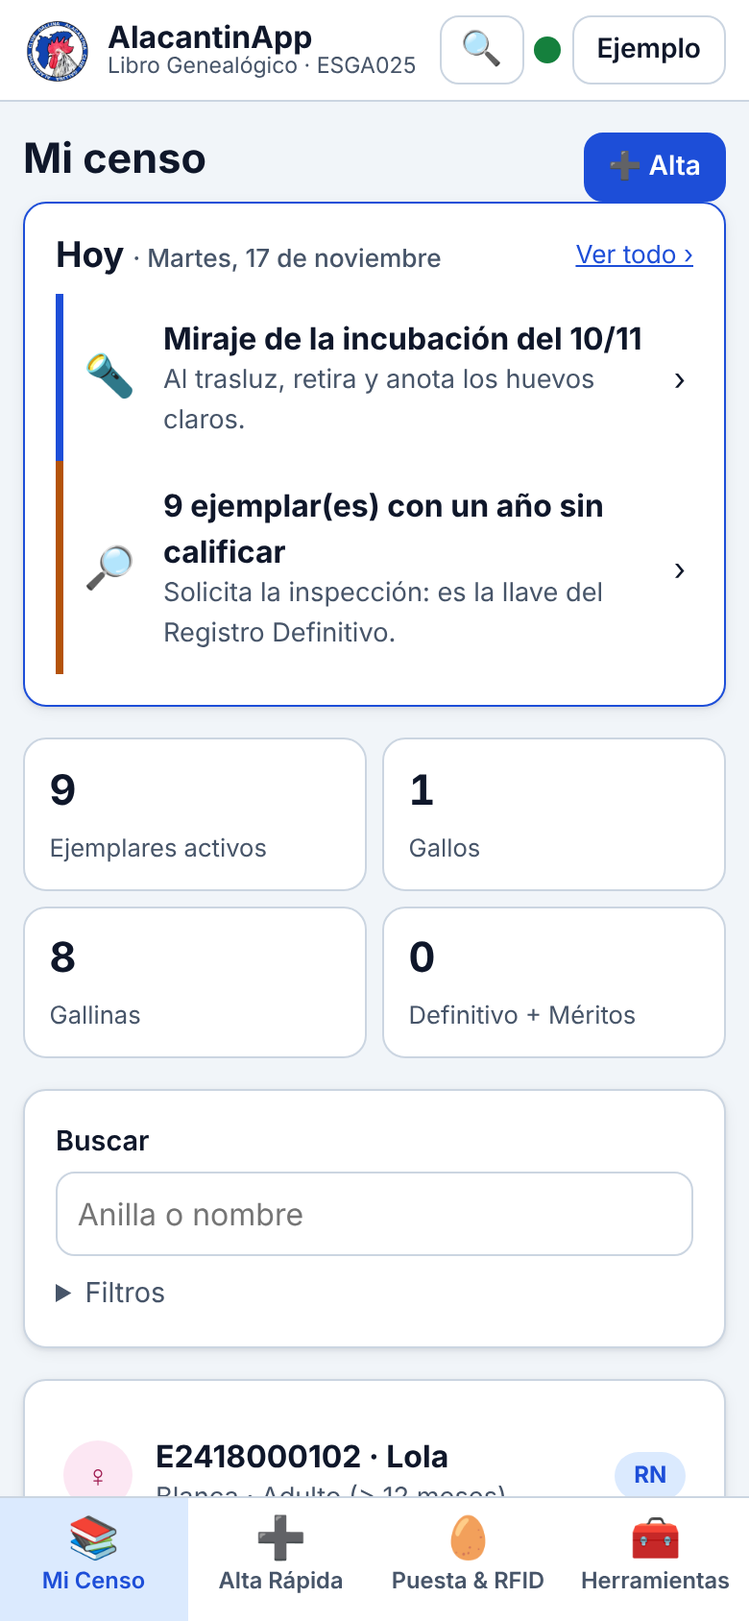
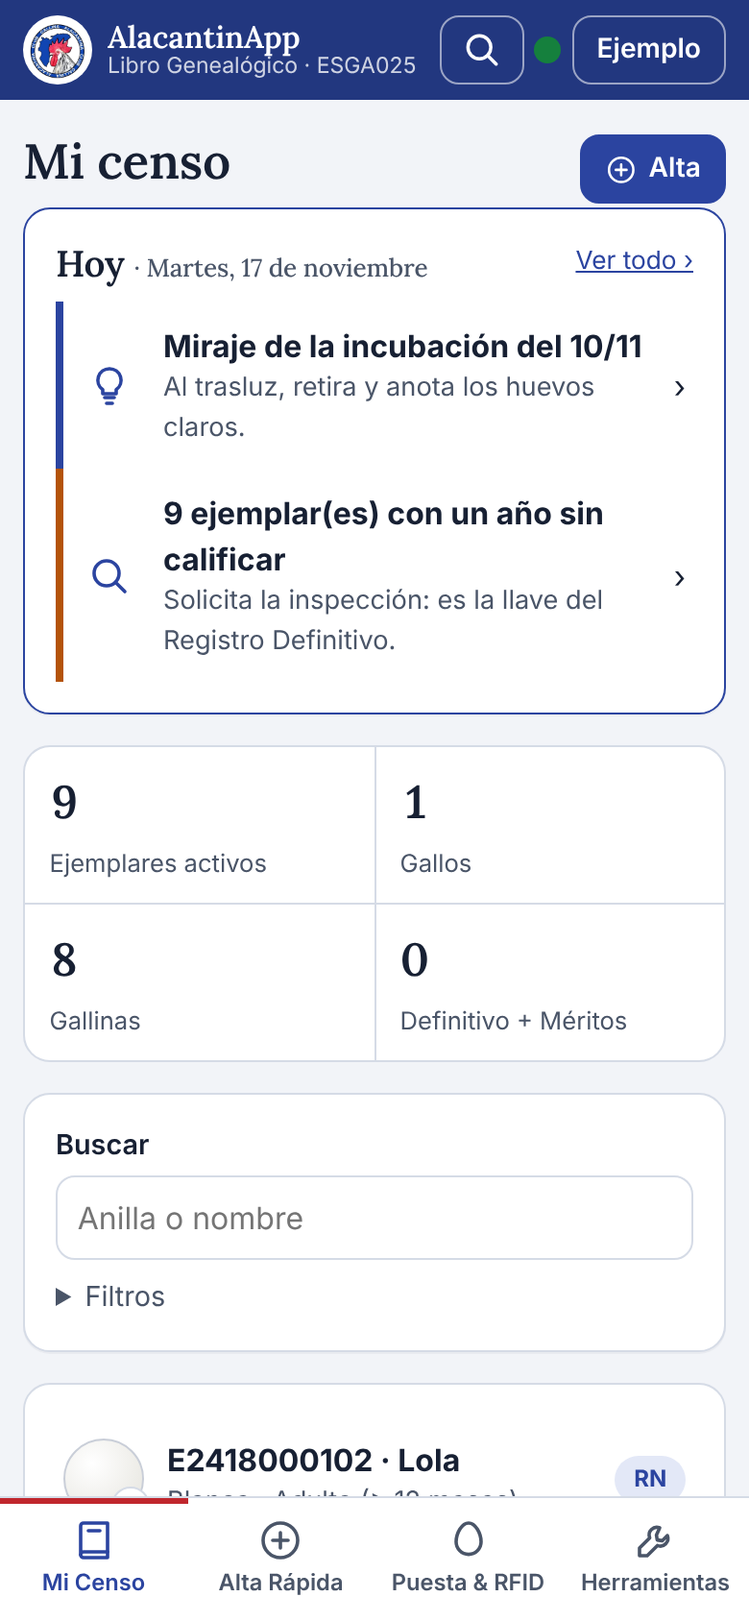
v7.14.0: identidad visual del Club
- Colores del escudo (marino y rojo cresta), títulos en Lora (WOFF local, OFL)
- Iconos SVG propios en lugar de emoji (js/iconos.js)
- Muestra de plumaje por variedad en censo, ficha y buscador
- Portada en el Estándar, franja de cifras, pesos «3–3,5 kg»
- Quita la línea de foco en main y las mayúsculas en tablas
- Capturas del manifiesto renovadas; pwa.mjs copia fonts/

Claude-Session: https://claude.ai/code/session_01TVyVoqxBmBJYePstuvjHuC

diff --git a/js/iconos.js b/js/iconos.js
@@ -1,0 +1,65 @@
+// Iconos propios (trazo de 24×24, color del texto). Sustituyen a los emoji, que cambian de
+// aspecto en cada móvil. Decorativos: aria-hidden; el texto de al lado da el nombre.
+import { html } from './ui.js';
+
+const T = {
+  libro: '<path d="M5 4.5A1.5 1.5 0 0 1 6.5 3H19v15H6.5A1.5 1.5 0 0 0 5 19.5z"/><path d="M5 19.5A1.5 1.5 0 0 0 6.5 21H19v-3"/><path d="M9 7h6"/>',
+  alta: '<circle cx="12" cy="12" r="9"/><path d="M12 8v8M8 12h8"/>',
+  huevo: '<path d="M12 3c3.6 0 6.5 5.4 6.5 9.8a6.5 6.5 0 0 1-13 0C5.5 8.4 8.4 3 12 3z"/>',
+  herramientas: '<path d="M14.5 5.5a4 4 0 0 0-5.2 5.2L4 16v4h4l5.3-5.3a4 4 0 0 0 5.2-5.2l-2.7 2.7-2.6-.4-.4-2.6z"/>',
+  estandar: '<circle cx="12" cy="9" r="5.5"/><path d="m8.7 13.5-1.2 7.5L12 19l4.5 2-1.2-7.5"/>',
+  guia: '<rect x="5.5" y="4" width="13" height="17" rx="2"/><path d="M9 4V2.8h6V4M8.5 10h7M8.5 14h7M8.5 18h4"/>',
+  lupa: '<circle cx="10.5" cy="10.5" r="6.5"/><path d="m20 20-4.8-4.8"/>',
+  calendario: '<rect x="3.5" y="5" width="17" height="15.5" rx="2"/><path d="M8 3v4M16 3v4M3.5 10h17"/>',
+  luz: '<path d="M9.5 18h5M10.5 21h3M12 3a6 6 0 0 0-3.5 10.9V16h7v-2.1A6 6 0 0 0 12 3z"/>',
+  nacimiento: '<path d="M5.5 13.5a6.5 6.5 0 0 0 13 0c0-.9-.1-1.8-.4-2.6L16 12.5l-2-3-2 3-2-3-2 3-2.1-1.6c-.3.8-.4 1.7-.4 2.6z"/>',
+  pollito: '<circle cx="10" cy="9" r="4"/><path d="M14 9l2.5 1-2.5 1M6 13.5C6 18 8.5 20 12 20s6-2 6-5.5c0-1.4-.6-2.4-1.5-3"/><circle cx="9" cy="8.5" r=".6" fill="currentColor"/>',
+  balanza: '<path d="M12 4v15M7.5 19h9M5 7.5h14"/><path d="M5 7.5 2.5 13a2.5 2.5 0 0 0 5 0zM19 7.5 16.5 13a2.5 2.5 0 0 0 5 0z"/>',
+  reloj: '<circle cx="12" cy="12" r="9"/><path d="M12 7v5l3.5 2"/>',
+  telefono: '<path d="M5 3.5h3.5l2 5L8 10a11 11 0 0 0 6 6l1.5-2.5 5 2V19a2 2 0 0 1-2 2A16.5 16.5 0 0 1 3 5.5a2 2 0 0 1 2-2z"/>',
+  coche: '<path d="M4.5 16v-4.5L6.8 6h10.4l2.3 5.5V16M3 16h18M7 19v-3M17 19v-3"/><circle cx="7.5" cy="13" r=".9" fill="currentColor"/><circle cx="16.5" cy="13" r=".9" fill="currentColor"/>',
+  revision: '<path d="M10 6h10M10 12h10M10 18h10"/><path d="m3.5 6 1.5 1.5L7.5 5M3.5 12l1.5 1.5L7.5 11M3.5 18l1.5 1.5 2.5-2.5"/>',
+  familia: '<circle cx="8" cy="7" r="3"/><circle cx="16.5" cy="8.5" r="2.5"/><path d="M3 20a5 5 0 0 1 10 0M13 20a4 4 0 0 1 8 0"/>',
+  casa: '<path d="M4 11 12 4l8 7v9H4z"/><path d="M10 20v-5h4v5"/>',
+  guardar: '<path d="M12 4v11M7 10l5 5 5-5M5 20h14"/>',
+  nube: '<path d="M7 18h10a4 4 0 0 0 .6-8A6 6 0 0 0 6 9a4.5 4.5 0 0 0 1 9z"/>',
+  candado: '<rect x="5" y="10.5" width="14" height="10" rx="2"/><path d="M8 10.5V7.5a4 4 0 0 1 8 0v3"/>',
+  aviso: '<path d="M12 3.5 2.5 20h19z"/><path d="M12 10v4.5M12 17.2v.3"/>',
+  brujula: '<circle cx="12" cy="12" r="9"/><path d="m15.5 8.5-2 5-5 2 2-5z"/>',
+  grafico: '<path d="M4 20V4M4 20h16"/><path d="M8 16v-4M12 16V8M16 16v-6"/>',
+  documento: '<path d="M7 3h7l5 5v13H7z"/><path d="M14 3v5h5M10 13h6M10 17h6"/>',
+  check: '<path d="m5 12.5 4.5 4.5L19 7.5"/>',
+  camara: '<path d="M4 8h3l1.5-2.5h7L17 8h3v11H4z"/><circle cx="12" cy="13" r="3.5"/>',
+  escudo: '<path d="M12 3 5 6v5.5c0 4.5 3 7.5 7 9.5 4-2 7-5 7-9.5V6z"/>',
+  movil: '<rect x="7" y="2.5" width="10" height="19" rx="2"/><path d="M11 18.5h2"/>',
+  bandera: '<path d="M5 21V4M5 4h11l-2 4 2 4H5"/>',
+  cesta: '<path d="M3.5 10h17l-2 10h-13z"/><path d="m8 10 3-6M16 10l-3-6"/>',
+  arbol: '<path d="M12 21v-6M12 15l-5-4M12 15l5-4M7 11V8M17 11V8"/><circle cx="7" cy="6" r="2"/><circle cx="17" cy="6" r="2"/>',
+  lapiz: '<path d="M4 20h4L19 9l-4-4L4 16z"/><path d="m13.5 6.5 4 4"/>',
+  copia: '<rect x="8" y="8" width="12" height="12" rx="2"/><path d="M16 8V5.5A1.5 1.5 0 0 0 14.5 4h-9A1.5 1.5 0 0 0 4 5.5v9A1.5 1.5 0 0 0 5.5 16H8"/>',
+  sol: '<circle cx="12" cy="12" r="4"/><path d="M12 2.5v2M12 19.5v2M2.5 12h2M19.5 12h2M5.3 5.3l1.4 1.4M17.3 17.3l1.4 1.4M5.3 18.7l1.4-1.4M17.3 6.7l1.4-1.4"/>',
+  baja: '<path d="M5 7h14M10 7V4.5h4V7M7 7l1 13h8l1-13"/>',
+  pareja: '<path d="M12 20s-7-4.4-7-10a4 4 0 0 1 7-2.6A4 4 0 0 1 19 10c0 5.6-7 10-7 10z"/>'
+};
+
+// Emoji que usaba la app → icono propio
+const EMOJI = {
+  '📚': 'libro', '➕': 'alta', '🥚': 'huevo', '🧰': 'herramientas', '📖': 'estandar', '📋': 'guia', '🔍': 'lupa', '🔎': 'lupa',
+  '📅': 'calendario', '🗓': 'calendario', '🔦': 'luz', '🐣': 'nacimiento', '🐥': 'pollito', '⚖': 'balanza', '⏳': 'reloj', '📞': 'telefono',
+  '🚗': 'coche', '🩺': 'revision', '🧬': 'familia', '🏡': 'casa', '💾': 'guardar', '☁': 'nube', '🔒': 'candado', '🐞': 'aviso',
+  '🧭': 'brujula', '💞': 'pareja', '📊': 'grafico', '📄': 'documento', '✅': 'check', '📷': 'camara', '🛡': 'escudo', '📲': 'movil',
+  '🚀': 'bandera', '🧺': 'cesta', '🌳': 'arbol', '✏': 'lapiz', '🖨': 'documento', '⬇': 'guardar', '☀': 'sol', '🗑': 'baja', '🏷': 'documento'
+};
+
+export const svgIcono = (nombre, clase = '') => T[nombre]
+  ? `<svg class="icono ${clase}" viewBox="0 0 24 24" width="24" height="24" fill="none" stroke="currentColor" stroke-width="1.8" stroke-linecap="round" stroke-linejoin="round" aria-hidden="true" focusable="false">${T[nombre]}</svg>`
+  : '';
+export const icono = (nombre, clase = '') => html(svgIcono(nombre, clase));
+// Para textos que traían un emoji: si hay icono propio se usa; si no, el emoji tal cual
+export const desdeEmoji = (e, clase = '') => (EMOJI[e] ? icono(EMOJI[e], clase) : e);
+export const nombreDeEmoji = (e) => EMOJI[e] || null;
+
+// Muestra del plumaje de la variedad con el sexo en una insignia (censo, ficha, buscador)
+import { nombreVariedad } from './estandar.js';
+const escAttr = (t) => String(t).replace(/[&<>"']/g, c => ({ '&': '&amp;', '<': '&lt;', '>': '&gt;', '"': '&quot;', "'": '&#39;' }[c]));
+export const ave = (a, clase = '') => html(`<span class="ave var-${escAttr(a.variedad || '')} sexo-${a.sexo === 'M' ? 'M' : 'H'} ${clase}" role="img" aria-label="${escAttr(`${a.sexo === 'M' ? 'Gallo' : 'Gallina'} ${nombreVariedad(a.variedad).toLowerCase()}`)}"><span class="ave-sexo" aria-hidden="true">${a.sexo === 'M' ? '♂' : '♀'}</span></span>`);

diff --git a/css/app.css b/css/app.css
@@ -4,12 +4,15 @@
    sol en el gallinero; tema oscuro automático según el sistema.
    ========================================================================== */
 :root {
-  --azul: #1e40af; --azul-2: #1d4ed8; --azul-claro: #dbeafe;
+  /* Identidad del Club: azul del escudo (provincia de Alicante) y rojo de la cresta */
+  --azul: #22377f; --azul-2: #2b44a0; --azul-claro: #e3e8f7;
+  --cresta: #c0262d;
+  --letra-titulo: "Lora", "Iowan Old Style", Georgia, serif;
   --rojo: #b91c1c; --rojo-claro: #fee2e2;
   --verde: #15803d; --verde-claro: #dcfce7;
   --ambar: #b45309; --ambar-claro: #fef3c7;
-  --texto: #0f172a; --texto-2: #475569; --borde: #cbd5e1;
-  --fondo: #f1f5f9; --superficie: #ffffff;
+  --texto: #172033; --texto-2: #4a5568; --borde: #d5dbe6;
+  --fondo: #f2f4f8; --superficie: #ffffff;
   --radio: 12px; --sombra: 0 1px 2px rgb(15 23 42 / .08), 0 2px 8px rgb(15 23 42 / .06);
   --barra-alto: 64px;
   /* Color de TEXTO de cada tono (en oscuro, más claro para que se lea sobre fondo oscuro) */
@@ -74,6 +77,8 @@ a { color: var(--azul-t); }
 .cabecera-estado { display: flex; align-items: center; gap: .35rem; flex-shrink: 0; }
 
 main { max-width: 960px; margin: 0 auto; padding: 1rem .75rem 2rem; outline: none; }
+/* main recibe el foco al navegar (lectores de pantalla): sin recuadro visible */
+main:focus, main:focus-visible { outline: none; }
 .cargando { color: var(--texto-2); }
 
 /* Barra inferior */
@@ -343,3 +348,53 @@ body.escribiendo .banner-actualizar { display: none; }
 .texto-legal h2 { font-size: 1.05rem; margin-top: 1.25rem; }
 .texto-legal h2:first-child { margin-top: 0; }
 .texto-legal li { margin-bottom: .35rem; }
+
+
+/* ===== Identidad visual (v7.14) ===== */
+@font-face { font-family: "Lora"; src: url("../fonts/lora.woff") format("woff"); font-weight: 400 700; font-display: swap; }
+h1, h2, .kpi b, .marca strong, .doc-cab h1 { font-family: var(--letra-titulo); font-weight: 600; letter-spacing: -.005em; }
+h1 { font-size: 1.6rem; } h2 { font-size: 1.2rem; }
+.item-titulo { font-weight: 650; }
+/* Cabecera con el azul del Club */
+.cabecera { background: var(--azul); color: #fff; border-bottom: 0; }
+.cabecera .marca { color: #fff; }
+.cabecera .marca img { background: #fff; border-radius: 50%; padding: 2px; }
+.cabecera .marca small { color: rgb(255 255 255 / .78); }
+.cabecera .btn { background: transparent; color: #fff; border-color: rgb(255 255 255 / .55); }
+.cabecera .btn:hover { background: rgb(255 255 255 / .12); }
+.cabecera .chip-ok { background: #dcfce7; color: #14532d; }
+/* Barra: iconos de trazo y la pestaña activa marcada con el rojo de la cresta */
+.barra a .ico { line-height: 0; }
+.barra a .icono { width: 24px; height: 24px; }
+.barra a[aria-current="page"] { background: transparent; color: var(--azul-t); box-shadow: inset 0 3px 0 var(--cresta); }
+@media (min-width: 900px) { .barra a[aria-current="page"] { box-shadow: inset 3px 0 0 var(--cresta); } }
+.icono { flex-shrink: 0; vertical-align: -0.2em; }
+.btn .icono { width: 1.2em; height: 1.2em; }
+.tarea-ico { color: var(--azul-t); line-height: 0; }
+.tarea-ico .icono { width: 24px; height: 24px; }
+.boton-icono .icono { width: 22px; height: 22px; }
+/* Tarjetas más sobrias */
+.tarjeta { border-radius: 14px; box-shadow: 0 1px 0 rgb(23 32 51 / .04); }
+/* Cifras en una sola franja, separadas por filetes (antes, una tarjeta por cifra) */
+.kpis { gap: 1px; background: var(--borde); border: 1px solid var(--borde); border-radius: 14px; overflow: hidden; }
+.kpi { border: 0; border-radius: 0; background: var(--superficie); }
+.kpi b { font-size: 1.5rem; font-variant-numeric: lining-nums tabular-nums; }
+/* Etiquetas de tabla en minúscula (las versales gritaban) */
+th { text-transform: none; letter-spacing: 0; font-weight: 600; font-size: .82rem; }
+/* Muestra del plumaje de cada variedad, con el sexo en una insignia */
+.ave { width: 42px; height: 42px; border-radius: 50%; flex-shrink: 0; position: relative; border: 1px solid #c9ced8; display: inline-block; }
+.ave-sexo { position: absolute; right: -4px; bottom: -4px; width: 20px; height: 20px; border-radius: 50%; background: var(--superficie); border: 1px solid var(--borde);
+  font-size: .75rem; font-weight: 800; line-height: 18px; text-align: center; color: var(--azul-t); }
+.ave.sexo-H .ave-sexo { color: var(--cresta); }
+.var-negra-moteada { background: radial-gradient(circle at 50% 50%, #f4f2ec 0 1.6px, transparent 2.1px) 0 0 / 9px 9px, radial-gradient(circle at 50% 50%, #f4f2ec 0 1.2px, transparent 1.7px) 4.5px 4.5px / 9px 9px, #1f2026; }
+.var-blanca { background: radial-gradient(circle at 35% 30%, #fff, #ecebe6 70%); }
+.var-pinta { background: conic-gradient(#1f2026 25%, #f4f2ec 0 50%, #1f2026 0 75%, #f4f2ec 0) 0 0 / 13px 13px; }
+.var-arminada { background: radial-gradient(circle at 50% 135%, #f7f6f1 58%, transparent 59%), repeating-linear-gradient(90deg, #1f2026 0 2px, #f7f6f1 2px 4px); }
+.var-milflores { background: radial-gradient(circle, #fff 0 1.4px, transparent 1.9px) 0 0 / 9px 9px, radial-gradient(circle, #1f2026 0 1.3px, transparent 1.8px) 4.5px 4.5px / 9px 9px, #9b5a2e; }
+/* Portada del Estándar */
+.portada { background: var(--azul); color: #fff; border-radius: 16px; padding: 1.25rem; display: grid; grid-template-columns: auto 1fr; gap: 1rem; align-items: center; margin-bottom: 1rem; }
+.portada img { width: 88px; height: 88px; border-radius: 50%; background: #fff; padding: 3px; }
+.portada h1 { color: #fff; font-size: 1.9rem; margin: 0 0 .15rem; line-height: 1.1; }
+.portada p { margin: 0; color: rgb(255 255 255 / .85); font-size: .92rem; }
+.portada .portada-raya { display: block; width: 44px; height: 3px; background: var(--cresta); border-radius: 2px; margin: .5rem 0; }
+@media (min-width: 640px) { .portada { padding: 1.75rem 2rem; } .portada img { width: 112px; height: 112px; } .portada h1 { font-size: 2.4rem; } }

diff --git a/js/vistas/ficha.js b/js/vistas/ficha.js
@@ -4,6 +4,7 @@ import { esAuditor } from '../auth.js';
 import { ESTANDAR, REGLAS, sumarMeses, anillaLegible, parsearAnilla, nombreVariedad, sexoTexto, pesoConforme, edadMeses, variedadPorId } from '../estandar.js';
 import { nivelFx, generacionesEquivalentes, purezaVariedad } from '../genetica.js';
 import * as docs from '../documentos.js';
+import { icono, ave } from '../iconos.js';
 import { h, pintar, $, aviso, fecha, kg, pct, dialogo, confirmar, hoyISO } from '../ui.js';
 
 export default function (main, { id }) {
@@ -38,7 +39,7 @@ export default function (main, { id }) {
       <p><a href="#/censo">← Censo</a></p>
       <div class="tarjeta">
         <div class="fila entre">
-          <div class="fila"><span class="sexo sexo-${a.sexo}" role="img" aria-label="${a.sexo === 'M' ? 'Gallo' : 'Gallina'}">${a.sexo === 'M' ? '♂' : '♀'}</span>
+          <div class="fila">${ave(a)}
             <div><h1 style="margin:0">${a.anilla}</h1><div class="muted">${a.nombre || sexoTexto(a.sexo)}</div></div></div>
           <div class="fila">
             <span class="chip ${['RD', 'RM'].includes(a.seccion) ? 'chip-ok' : 'chip-info'}">${a.seccion === 'RM' ? '★ ' : ''}${a.seccion} · ${ESTANDAR.secciones[a.seccion]}</span>
@@ -67,10 +68,10 @@ export default function (main, { id }) {
       </div>
 
       <div class="fila" style="margin-bottom:1rem">
-        <a class="btn" href="#/pedigri/${a.id}">🌳 Pedigrí</a>
-        ${propio && a.estado !== 'baja' ? h`<a class="btn" href="#/editar/${a.id}">✏ Editar</a>` : ''}
-        ${verPrivado ? h`<button class="btn" id="b-cert">📄 Certificado</button>` : ''}
-        ${auditor && a.estado !== 'baja' ? h`<a class="btn btn-primario" href="#/calificar/${a.id}">✅ Calificar</a>` : ''}
+        <a class="btn" href="#/pedigri/${a.id}">${icono('arbol')} Pedigrí</a>
+        ${propio && a.estado !== 'baja' ? h`<a class="btn" href="#/editar/${a.id}">${icono('lapiz')} Editar</a>` : ''}
+        ${verPrivado ? h`<button class="btn" id="b-cert">${icono('documento')} Certificado</button>` : ''}
+        ${auditor && a.estado !== 'baja' ? h`<a class="btn btn-primario" href="#/calificar/${a.id}">${icono('check')} Calificar</a>` : ''}
         ${admin && a.estado !== 'baja' ? h`<button class="btn" id="b-titular">Cambiar titular</button>` : ''}
         ${propio && a.estado !== 'baja' ? h`<button class="btn btn-peligro" id="b-baja">Dar de baja</button>` : ''}
       </div>
@@ -121,7 +122,7 @@ export default function (main, { id }) {
       </div>` : ''}
 
       ${hijos.length ? h`<div class="tarjeta"><h2>Descendencia (${hijos.length})</h2><ul class="lista">
-        ${hijos.map(x => h`<li><a class="item" href="#/animal/${x.id}"><span class="sexo sexo-${x.sexo}" role="img" aria-label="${x.sexo === 'M' ? 'Gallo' : 'Gallina'}">${x.sexo === 'M' ? '♂' : '♀'}</span>
+        ${hijos.map(x => h`<li><a class="item" href="#/animal/${x.id}">${ave(x)}
           <span class="item-principal"><span class="item-titulo">${x.anilla}</span><span class="item-sub">${fecha(x.fecha_nacimiento)} · ${x.seccion}</span></span></a></li>`)}</ul></div>` : ''}`);
 
     const titular = () => datos.estado.perfiles.find(x => x.id === completo.usuario_id) || (propio ? datos.estado.perfil : null);

diff --git a/js/vistas/censo.js b/js/vistas/censo.js
@@ -7,6 +7,7 @@ import { h, pintar, $, pct } from '../ui.js';
 import { copiaPendiente } from '../respaldo.js';
 import * as instalacion from '../instalacion.js';
 import { estadoPasos, itemTarea, fechaLarga } from './hoy.js';
+import { desdeEmoji, icono, ave } from '../iconos.js';
 import { supabaseConfigurado } from '../config.js';
 
 const normal = (s) => String(s || '').normalize('NFD').replace(/\p{Diacritic}/gu, '').toLowerCase();
@@ -19,7 +20,7 @@ export default function (main) {
 
   pintar(main, h`
     <div class="fila entre"><h1>${titulo}</h1>
-      ${p ? h`<a class="btn btn-primario btn-pequeno" href="#/alta">➕ Alta</a>` : ''}</div>
+      ${p ? h`<a class="btn btn-primario btn-pequeno" href="#/alta">${icono('alta')} Alta</a>` : ''}</div>
     ${!p ? h`<p class="muted">Ejemplares inscritos en el Libro Genealógico. No se muestran datos personales de los criadores.</p>` : ''}
     ${p?.rol === 'aspirante' ? h`<div class="aviso-caja aviso">Cuenta de aspirante: añade tu código REGA en <a href="#/perfil">Mi aviario</a> para pasar a Criador.</div>` : ''}
     <div id="censo-riesgo"></div>
@@ -55,7 +56,7 @@ export default function (main) {
       pintar(caja, h`<div class="tarjeta tarjeta-hoy"><div class="fila entre"><h2 style="margin:0">Hoy <span class="muted peq" style="font-weight:500">· ${fechaLarga()}</span></h2>
           <a class="peq" href="#/hoy">Ver todo ›</a></div>
         ${tareas.length ? h`<ul class="lista">${tareas.slice(0, 3).map(itemTarea)}</ul>${tareas.length > 3 ? h`<p class="peq" style="margin:.25rem 0 0"><a href="#/hoy">y ${tareas.length - 3} más →</a></p>` : ''}` : ''}
-        ${pasos.ocultos ? '' : h`<a class="item tarea" href="#/hoy"><span class="tarea-ico" aria-hidden="true">🚀</span><span class="item-principal"><span class="item-titulo">Primeros pasos: ${pasos.hechos} de ${pasos.pasos.length}</span><span class="item-sub">${pasos.pasos.find(x => !x.hecho)?.texto || ''}</span></span><span aria-hidden="true">›</span></a>`}
+        ${pasos.ocultos ? '' : h`<a class="item tarea" href="#/hoy"><span class="tarea-ico" aria-hidden="true">${desdeEmoji('🚀')}</span><span class="item-principal"><span class="item-titulo">Primeros pasos: ${pasos.hechos} de ${pasos.pasos.length}</span><span class="item-sub">${pasos.pasos.find(x => !x.hecho)?.texto || ''}</span></span><span aria-hidden="true">›</span></a>`}
       </div>`);
     }, 0);
     limpiar.push(() => clearTimeout(tHoy));
@@ -98,7 +99,7 @@ export default function (main) {
         const nf = nivelFx(f);
         const t = tramoEdad(a.fecha_nacimiento);
         return h`<li><a class="item" href="#/animal/${encodeURIComponent(a.id)}">
-          <span class="sexo sexo-${a.sexo}" role="img" aria-label="${a.sexo === 'M' ? 'Gallo' : 'Gallina'}">${a.sexo === 'M' ? '♂' : '♀'}</span>
+          ${ave(a)}
           <span class="item-principal">
             <span class="item-titulo">${a.anilla}${a.nombre ? h` · ${a.nombre}` : ''}</span>
             <span class="item-sub">${nombreVariedad(a.variedad)} · ${t ? t.nombre : 'Edad desconocida'}</span>

diff --git a/js/vistas/herramientas.js b/js/vistas/herramientas.js
@@ -6,6 +6,7 @@ import { cerrarSesion } from '../app.js';
 import { h, pintar, $, confirmar, aviso } from '../ui.js';
 import * as instalacion from '../instalacion.js';
 import * as tema from '../tema.js';
+import { desdeEmoji } from '../iconos.js';
 
 export default function (main) {
   const p = datos.estado.perfil;
@@ -48,7 +49,7 @@ export default function (main) {
       <div class="opciones" role="radiogroup" aria-labelledby="h-pantalla-et">${Object.entries(tema.TEMAS).map(([k, v]) => h`<label><input type="radio" name="h-tema" value="${k}" ${tema.actual() === k ? h`checked` : ''}><span>${v}</span></label>`)}</div>
       <p class="ayuda">«Sol»: máximo contraste y letra más grande, para leer al aire libre. Se guarda en este dispositivo.</p></div>
     ${grupos.map(([titulo, items]) => h`<div class="tarjeta"><h2>${titulo}</h2><ul class="lista">
-      ${items.map(([href, ico, t, sub]) => h`<li><a class="item" href="${href}"><span style="font-size:1.4rem" aria-hidden="true">${ico}</span>
+      ${items.map(([href, ico, t, sub]) => h`<li><a class="item" href="${href}"><span class="tarea-ico" aria-hidden="true">${desdeEmoji(ico)}</span>
         <span class="item-principal"><span class="item-titulo">${t}</span><span class="item-sub">${sub}</span></span><span aria-hidden="true">›</span></a></li>`)}
     </ul></div>`)}
     <p class="muted peq">AlacantinApp ${CONFIG.version} · ${supabaseConfigurado() ? 'Conectada al Libro central' : 'Modo dispositivo (sin servidor)'}</p>`);
@@ -60,7 +61,7 @@ export default function (main) {
     const a = await instalacion.estadoAlmacen();
     const fotos = await (async () => { try { return (await (await caches.open('alacantinapp-fotos')).keys()).length; } catch { return 0; } })();
     const inst = instalacion.instalada();
-    pintar(caja, h`<h2 id="instalar">📲 La app en este dispositivo</h2>
+    pintar(caja, h`<h2 id="instalar">La app en este dispositivo</h2>
       <p>${inst ? '✓ Instalada: se abre desde su icono, a pantalla completa y sin conexión.' : 'Aún no está instalada.'}
         ${a.persistente === true ? h`<br>✓ Datos protegidos: el navegador no los borrará para liberar espacio.` : a.persistente === false ? h`<br><strong>Datos sin proteger:</strong> el navegador podría borrarlos si le falta espacio.` : ''}
         ${a.usoMB != null ? h`<br><span class="peq muted">Espacio usado: ${a.usoMB < 1 ? '< 1' : Math.round(a.usoMB)} MB${a.cuotaMB ? ` de ${Math.round(a.cuotaMB / 1024 * 10) / 10} GB disponibles` : ''} (las fotos son lo que más ocupa).</span>` : ''}</p>

diff --git a/js/vistas/hoy.js b/js/vistas/hoy.js
@@ -5,8 +5,9 @@ import * as instalacion from '../instalacion.js';
 import { ultimaCopia } from '../respaldo.js';
 import { supabaseConfigurado } from '../config.js';
 import { h, pintar, $, hoyISO } from '../ui.js';
+import { desdeEmoji } from '../iconos.js';
 
-const GRUPOS = [['hoy', 'Hoy'], ['pronto', 'Próximos días'], ['info', 'Para tener en cuenta']];
+const GRUPOS = [['hoy', 'Para hoy'], ['pronto', 'Próximos días'], ['info', 'Para tener en cuenta']];
 
 export const fechaLarga = (iso = hoyISO()) => { const t = new Date(`${iso}T12:00:00`).toLocaleDateString('es-ES', { weekday: 'long', day: 'numeric', month: 'long' }); return t.charAt(0).toUpperCase() + t.slice(1); };
 
@@ -19,7 +20,7 @@ export async function estadoPasos() {
 }
 
 export const itemTarea = (x) => h`<li><a class="item tarea tarea-${x.nivel}" href="${x.href}">
-  <span class="tarea-ico" aria-hidden="true">${x.icono}</span>
+  <span class="tarea-ico" aria-hidden="true">${desdeEmoji(x.icono)}</span>
   <span class="item-principal"><span class="item-titulo">${x.texto}</span>${x.sub ? h`<span class="item-sub">${x.sub}</span>` : ''}</span>
   <span aria-hidden="true">›</span></a></li>`;
 
@@ -40,7 +41,7 @@ export default function (main) {
       ${pasos.ocultos ? '' : tarjetaPasos(pasos)}
       ${GRUPOS.map(([nivel, titulo]) => { const l = tareas.filter(x => x.nivel === nivel); return l.length ? h`<div class="tarjeta"><h2>${titulo}</h2><ul class="lista">${l.map(itemTarea)}</ul></div>` : ''; })}
       ${!tareas.some(x => x.nivel !== 'info') ? h`<div class="aviso-caja ok">✓ Nada urgente para hoy.</div>` : ''}
-      <div class="tarjeta"><h2>Este mes</h2><a class="item tarea" href="${href}"><span class="tarea-ico" aria-hidden="true">${ico}</span><span class="item-principal"><span class="item-titulo">${texto}</span></span><span aria-hidden="true">›</span></a>
+      <div class="tarjeta"><h2>Este mes</h2><a class="item tarea" href="${href}"><span class="tarea-ico" aria-hidden="true">${desdeEmoji(ico)}</span><span class="item-principal"><span class="item-titulo">${texto}</span></span><span aria-hidden="true">›</span></a>
         <p class="peq muted" style="margin:.5rem 0 0">Calendario completo en la <a href="#/programa?s=calendario">Guía del criador</a>.</p></div>`);
     $('#pasos-ocultar', main)?.addEventListener('click', async () => { await db.metaSet(`pasos-ocultos:${p.id}`, true); dibujar(); });
   };

diff --git a/sw.js b/sw.js
@@ -12,7 +12,7 @@
 //    archivos de dos versiones.
 //  · Supabase (datos, sesión, fotos) nunca se cachea: los datos viven en IndexedDB.
 // ============================================================================
-const VERSION = '7.13.1';
+const VERSION = '7.14.0';
 const CACHE = `alacantinapp-${VERSION}`;
 const CACHE_CDN = 'alacantinapp-cdn-1';
 // Fotos del servidor (Supabase Storage): se guardan al verlas para poder verlas sin cobertura.
@@ -29,7 +29,7 @@ const APP = [
   './js/vistas/censo.js', './js/vistas/estandar.js', './js/vistas/ficha.js', './js/vistas/guia.js',
   './js/vistas/herramientas.js', './js/vistas/informes.js', './js/vistas/pedigri.js', './js/vistas/perfil.js',
   './js/vistas/puesta.js', './js/vistas/sincronizacion.js', './js/vistas/usuarios.js',
-  './js/vistas/programa.js', './js/vistas/campanas.js', './js/vistas/campana.js', './js/vistas/dossier.js', './js/vistas/copia.js', './js/respaldo.js', './js/instalacion.js', './js/buscar.js', './js/tema.js', './js/diagnostico.js', './js/vistas/problema.js', './js/vistas/privacidad.js', './js/vistas/reproduccion.js', './js/vistas/incubacion.js', './js/vistas/inspeccion.js', './js/vistas/inspecciones.js', './js/vistas/auditoria.js', './js/vistas/acta.js', './js/vistas/hoy.js',
+  './js/vistas/programa.js', './js/vistas/campanas.js', './js/vistas/campana.js', './js/vistas/dossier.js', './js/vistas/copia.js', './js/respaldo.js', './js/instalacion.js', './js/buscar.js', './js/iconos.js', './fonts/lora.woff', './js/tema.js', './js/diagnostico.js', './js/vistas/problema.js', './js/vistas/privacidad.js', './js/vistas/reproduccion.js', './js/vistas/incubacion.js', './js/vistas/inspeccion.js', './js/vistas/inspecciones.js', './js/vistas/auditoria.js', './js/vistas/acta.js', './js/vistas/hoy.js',
   './icons/icon-192.png', './icons/icon-512.png', './icons/icon-maskable-512.png', './icons/icon-maskable-192.png', './icons/apple-touch-icon.png',
   './icons/logo.png', './docs/Estandar-Alacantina2025.pdf'
 ];

diff --git a/js/vistas/estandar.js b/js/vistas/estandar.js
@@ -1,13 +1,17 @@
 import { ESTANDAR } from '../estandar.js';
 import { h, pintar } from '../ui.js';
 
-const kg = (g) => (g / 1000).toFixed(3).replace('.', ',');
+// 3000 → «3», 3500 → «3,5» (sin ceros de relleno)
+const kg = (g) => String(Math.round(g / 10) / 100).replace('.', ',');
 
 export default function (main) {
   const E = ESTANDAR;
   pintar(main, h`
-    <h1>Estándar oficial · Alacantina</h1>
-    <p class="muted">Código ${E.codigo} · Revisión ${E.revision} · Origen: ${E.origen}</p>
+    <header class="portada">
+      <img src="./icons/logo.png" alt="Escudo del Club de la Gallina Alacantina" width="112" height="112">
+      <div><h1>Gallina Alacantina</h1><span class="portada-raya" aria-hidden="true"></span>
+        <p>Raza autóctona de la provincia de Alicante. Estándar oficial ${E.codigo}, revisión del ${E.revision}.</p></div>
+    </header>
 
     <div class="tarjeta">
       <h2>Impresión general</h2>
@@ -25,7 +29,7 @@ export default function (main) {
       <h2>Variedades</h2>
       <ul class="lista">
         ${E.variedades.map(v => h`<li class="item"><div class="item-principal">
-          <div class="item-titulo">${v.nombre} ${v.oficial ? h`<span class="chip chip-ok">Oficial</span>` : h`<span class="chip chip-aviso">En proceso de reconocimiento</span>`}</div>
+          <div class="item-titulo"><span class="ave var-${v.id}" style="width:28px;height:28px;vertical-align:middle;margin-right:.4rem" aria-hidden="true"></span>${v.nombre} ${v.oficial ? h`<span class="chip chip-ok">Oficial</span>` : h`<span class="chip chip-aviso">En proceso de reconocimiento</span>`}</div>
           <div class="item-sub">${v.detalle}</div></div></li>`)}
       </ul>
     </div>

diff --git a/index.html b/index.html
@@ -5,7 +5,7 @@
   <meta name="viewport" content="width=device-width, initial-scale=1, viewport-fit=cover">
   <title>AlacantinApp · Libro Genealógico de la Gallina Alacantina</title>
   <meta name="description" content="Libro Genealógico de la Gallina Alacantina (ESGA025): censo, altas, puesta y calificación conforme al Estándar oficial.">
-  <meta name="theme-color" content="#1e40af">
+  <meta name="theme-color" content="#22377f">
   <meta name="mobile-web-app-capable" content="yes">
   <meta name="apple-mobile-web-app-capable" content="yes">
   <meta name="apple-mobile-web-app-status-bar-style" content="default">
@@ -28,7 +28,7 @@
       <span><strong>AlacantinApp</strong><small>Libro Genealógico · ESGA025</small></span>
     </a>
     <div class="cabecera-estado">
-      <button id="boton-buscar" class="btn btn-pequeno boton-icono" type="button" aria-label="Buscar por anilla" title="Buscar por anilla (tecla /)">🔍</button>
+      <button id="boton-buscar" class="btn btn-pequeno boton-icono" type="button" aria-label="Buscar por anilla" title="Buscar por anilla (tecla /)"><svg class="icono" viewBox="0 0 24 24" width="22" height="22" fill="none" stroke="currentColor" stroke-width="1.9" stroke-linecap="round" aria-hidden="true" focusable="false"><circle cx="10.5" cy="10.5" r="6.5"/><path d="m20 20-4.8-4.8"/></svg></button>
       <span id="estado-red" class="chip" title="Estado de la conexión">—</span>
       <button id="estado-cola" class="chip chip-boton oculto" type="button" title="Operaciones pendientes de sincronizar"></button>
       <button id="boton-cuenta" class="btn btn-pequeno" type="button">Entrar</button>

diff --git a/js/vistas/puesta.js b/js/vistas/puesta.js
@@ -4,6 +4,7 @@
 import * as datos from '../datos.js';
 import { ESTANDAR, REGLAS, huevoApto, huevoGrande } from '../estandar.js';
 import { h, pintar, $, aviso, fecha, hoyISO, confirmar } from '../ui.js';
+import { icono } from '../iconos.js';
 
 const coma = (n, d = 1) => (n === null || n === undefined ? '—' : Number(n).toFixed(d).replace('.', ','));
 
@@ -107,7 +108,7 @@ export default function (main) {
         <p class="peq">${pendientes.length ? h`Sin huevos anotados hoy: ${pendientes.map((x, i) => h`${i ? ', ' : ''}<a href="#/puesta?gallina=${x.id}" data-elegir="${x.id}">${x.a.anilla}</a>`)}` : 'Hoy ya has anotado huevos de todas las gallinas controladas.'}</p></div>`);
     } else {
       const prox = datos.misCampanas().find(x => datos.estadoCampana(x) === 'programada');
-      pintar(caja, h`<a class="tarjeta item" href="#/campanas" style="display:flex"><span style="font-size:1.4rem" aria-hidden="true">🗓</span>
+      pintar(caja, h`<a class="tarjeta item" href="#/campanas" style="display:flex"><span class="tarea-ico" aria-hidden="true">${icono('calendario')}</span>
         <span class="item-principal"><span class="item-titulo">Control de puesta</span>
         <span class="item-sub">${prox ? `Próximo: ciclo ${prox.ciclo}, empieza el ${fecha(prox.inicio)}` : `${REGLAS.controlPuesta.ciclos} campañas de ${REGLAS.controlPuesta.dias} días entre febrero y junio. Organízalas aquí.`}</span></span><span aria-hidden="true">›</span></a>`);
     }

diff --git a/js/buscar.js b/js/buscar.js
@@ -3,6 +3,7 @@
 import * as datos from './datos.js';
 import { nombreVariedad } from './estandar.js';
 import { h, pintar } from './ui.js';
+import { ave } from './iconos.js';
 
 const MAX = 8;
 const normal = (s) => String(s || '').normalize('NFD').replace(/\p{Diacritic}/gu, '').toLowerCase();
@@ -52,7 +53,7 @@ export function abrirBuscador() {
     resultados = buscarEjemplares(q.value);
     pintar(ul, !q.value.trim() ? '' : !resultados.length ? h`<li class="muted peq" style="padding:.5rem 0">Ninguna anilla coincide.</li>`
       : h`${resultados.slice(0, MAX).map((a, i) => h`<li><a class="item" href="#/animal/${encodeURIComponent(a.id)}" data-i="${i}">
-          <span class="sexo sexo-${a.sexo}" aria-hidden="true">${a.sexo === 'M' ? '♂' : '♀'}</span>
+          ${ave(a)}
           <span class="item-principal"><span class="item-titulo">${a.anilla}${a.nombre ? ` · ${a.nombre}` : ''}</span>
           <span class="item-sub">${nombreVariedad(a.variedad)} · ${a.seccion}${a.estado === 'baja' ? ' · baja' : ''}</span></span></a></li>`)}
         ${resultados.length > MAX ? h`<li class="muted peq" style="padding:.4rem 0">Y ${resultados.length - MAX} más: escribe más cifras.</li>` : ''}`);

diff --git a/js/app.js b/js/app.js
@@ -8,6 +8,7 @@ import * as datos from './datos.js';
 import * as instalacion from './instalacion.js';
 import * as diagnostico from './diagnostico.js';
 import { $, aviso, esc } from './ui.js';
+import { svgIcono, nombreDeEmoji } from './iconos.js';
 
 // Rutas: [patrón, módulo, roles permitidos ('*' = todos, 'usuario' = cualquier sesión)]
 const RUTAS = [
@@ -115,7 +116,7 @@ function pintarBarra() {
   const nav = $('#barra');
   nav.dataset.columnas = String(items.length);
   nav.innerHTML = items.map(([ruta, ico, texto]) =>
-    `<a href="#/${ruta}" data-ruta="${ruta}"><span class="ico" aria-hidden="true">${ico}</span><span>${esc(texto)}</span></a>`).join('');
+    `<a href="#/${ruta}" data-ruta="${ruta}"><span class="ico" aria-hidden="true">${svgIcono(nombreDeEmoji(ico)) || ico}</span><span>${esc(texto)}</span></a>`).join('');
   marcarBarra(resolver(location.hash)?.base);
 }
 
